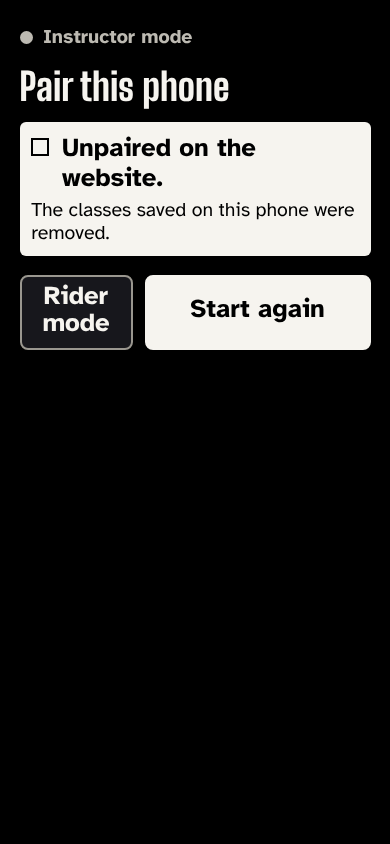
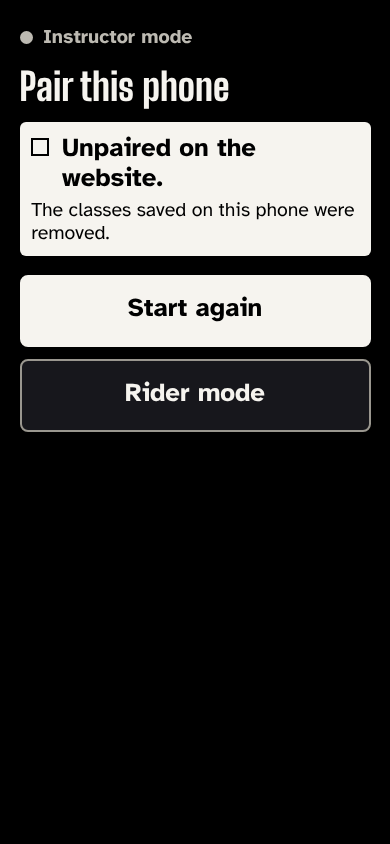
docs(design): Android pairing spec as built
Refused-plate keys stacked, Start again first then Rider mode, as in
PLATE_KEYS; FLAG_SECURE while pairing shows; save-failed plate stays over
rider mode after a pair-again. Mock-ups regenerated. Fix the iOS note.

Claude-Session: https://claude.ai/code/session_01LLHBh3xazuKpSV1STS2mcZ

Changed region(s): [[0.0308, 0.3081, 0.9538, 0.5237]]

diff --git a/docs/design/mockups/app-pair-ios-no-passcode.html b/docs/design/mockups/app-pair-ios-no-passcode.html
@@ -11,6 +11,6 @@
 </head>
 <body class="app">
 <!-- State: pairing ended with no_keychain. The plate carries the notice; "Start again" asks for a new code.  Spec: docs/design/app-pairing.md. Generated by app-pages.js: edit that, not this file. -->
-<main data-layer="native" class="page"><div class="lead"><p class="mode"><span data-tier="label" data-lines="1">Instructor mode</span></p><h1><span data-tier="value" data-lines="2">Pair this phone</span></h1><div class="plate" role="alert"><span data-tier="minor" data-lines="2" class="h">This phone cannot be paired.</span><span data-tier="label" data-lines="4" class="dt">Pairing needs a passcode to keep it safe. Set one in Settings, then start again. Rider mode works without it.</span></div></div><div class="act"><div class="duo"><button class="key" data-action="stay_rider"><span class="kl" data-tier="minor" data-lines="2">Rider mode</span></button><button class="key main" data-action="pair_again"><span class="kl" data-tier="minor" data-lines="2">Start again</span></button></div></div></main>
+<main data-layer="native" class="page"><div class="lead"><p class="mode"><span data-tier="label" data-lines="1">Instructor mode</span></p><h1><span data-tier="value" data-lines="2">Pair this phone</span></h1><div class="plate" role="alert"><span data-tier="minor" data-lines="2" class="h">This phone cannot be paired.</span><span data-tier="label" data-lines="4" class="dt">Pairing needs a passcode to keep it safe. Set one in Settings, then start again. Rider mode works without it.</span></div></div><div class="act"><div class="stack"><button class="key main full" data-action="pair_again"><span class="kl" data-tier="minor" data-lines="2">Start again</span></button><button class="key full" data-action="stay_rider"><span class="kl" data-tier="minor" data-lines="2">Rider mode</span></button></div></div></main>
 </body>
 </html>

diff --git a/docs/design/mockups/app-pair-save-failed.html b/docs/design/mockups/app-pair-save-failed.html
@@ -11,6 +11,6 @@
 </head>
 <body class="app">
 <!-- State: pairing ended with save_failed. The plate carries the notice; "Start again" asks for a new code.  Spec: docs/design/app-pairing.md. Generated by app-pages.js: edit that, not this file. -->
-<main data-layer="native" class="page"><div class="lead"><p class="mode"><span data-tier="label" data-lines="1">Instructor mode</span></p><h1><span data-tier="value" data-lines="2">Pair this phone</span></h1><div class="plate" role="alert"><span data-tier="minor" data-lines="2" class="h">The pairing could not be kept.</span><span data-tier="label" data-lines="4" class="dt">The Android Keystore did not keep it, so the pairing was undone. Start again.</span></div></div><div class="act"><div class="duo"><button class="key" data-action="stay_rider"><span class="kl" data-tier="minor" data-lines="2">Rider mode</span></button><button class="key main" data-action="pair_again"><span class="kl" data-tier="minor" data-lines="2">Start again</span></button></div></div></main>
+<main data-layer="native" class="page"><div class="lead"><p class="mode"><span data-tier="label" data-lines="1">Instructor mode</span></p><h1><span data-tier="value" data-lines="2">Pair this phone</span></h1><div class="plate" role="alert"><span data-tier="minor" data-lines="2" class="h">The pairing could not be kept.</span><span data-tier="label" data-lines="4" class="dt">The Android Keystore did not keep it, so the pairing was undone. Start again.</span></div></div><div class="act"><div class="stack"><button class="key main full" data-action="pair_again"><span class="kl" data-tier="minor" data-lines="2">Start again</span></button><button class="key full" data-action="stay_rider"><span class="kl" data-tier="minor" data-lines="2">Rider mode</span></button></div></div></main>
 </body>
 </html>

diff --git a/docs/design/mockups/app-pair-ios-save-failed.html b/docs/design/mockups/app-pair-ios-save-failed.html
@@ -11,6 +11,6 @@
 </head>
 <body class="app">
 <!-- State: pairing ended with save_failed. The plate carries the notice; "Start again" asks for a new code.  Spec: docs/design/app-pairing.md. Generated by app-pages.js: edit that, not this file. -->
-<main data-layer="native" class="page"><div class="lead"><p class="mode"><span data-tier="label" data-lines="1">Instructor mode</span></p><h1><span data-tier="value" data-lines="2">Pair this phone</span></h1><div class="plate" role="alert"><span data-tier="minor" data-lines="2" class="h">The pairing could not be kept.</span><span data-tier="label" data-lines="4" class="dt">The Keychain did not keep it, so the pairing was undone. Start again.</span></div></div><div class="act"><div class="duo"><button class="key" data-action="stay_rider"><span class="kl" data-tier="minor" data-lines="2">Rider mode</span></button><button class="key main" data-action="pair_again"><span class="kl" data-tier="minor" data-lines="2">Start again</span></button></div></div></main>
+<main data-layer="native" class="page"><div class="lead"><p class="mode"><span data-tier="label" data-lines="1">Instructor mode</span></p><h1><span data-tier="value" data-lines="2">Pair this phone</span></h1><div class="plate" role="alert"><span data-tier="minor" data-lines="2" class="h">The pairing could not be kept.</span><span data-tier="label" data-lines="4" class="dt">The Keychain did not keep it, so the pairing was undone. Start again.</span></div></div><div class="act"><div class="stack"><button class="key main full" data-action="pair_again"><span class="kl" data-tier="minor" data-lines="2">Start again</span></button><button class="key full" data-action="stay_rider"><span class="kl" data-tier="minor" data-lines="2">Rider mode</span></button></div></div></main>
 </body>
 </html>

diff --git a/docs/design/mockups/app-pair-unexpected.html b/docs/design/mockups/app-pair-unexpected.html
@@ -11,6 +11,6 @@
 </head>
 <body class="app">
 <!-- State: pairing ended with unexpected. The plate carries the notice; "Start again" asks for a new code.  Spec: docs/design/app-pairing.md. Generated by app-pages.js: edit that, not this file. -->
-<main data-layer="native" class="page"><div class="lead"><p class="mode"><span data-tier="label" data-lines="1">Instructor mode</span></p><h1><span data-tier="value" data-lines="2">Pair this phone</span></h1><div class="plate" role="alert"><span data-tier="minor" data-lines="2" class="h">The answer was not understood.</span><span data-tier="label" data-lines="4" class="dt">The app could not read the server's answer. Try again later.</span></div></div><div class="act"><div class="duo"><button class="key" data-action="stay_rider"><span class="kl" data-tier="minor" data-lines="2">Rider mode</span></button><button class="key main" data-action="pair_again"><span class="kl" data-tier="minor" data-lines="2">Start again</span></button></div></div></main>
+<main data-layer="native" class="page"><div class="lead"><p class="mode"><span data-tier="label" data-lines="1">Instructor mode</span></p><h1><span data-tier="value" data-lines="2">Pair this phone</span></h1><div class="plate" role="alert"><span data-tier="minor" data-lines="2" class="h">The answer was not understood.</span><span data-tier="label" data-lines="4" class="dt">The app could not read the server's answer. Try again later.</span></div></div><div class="act"><div class="stack"><button class="key main full" data-action="pair_again"><span class="kl" data-tier="minor" data-lines="2">Start again</span></button><button class="key full" data-action="stay_rider"><span class="kl" data-tier="minor" data-lines="2">Rider mode</span></button></div></div></main>
 </body>
 </html>

diff --git a/docs/design/mockups/app-pair-code-expired.html b/docs/design/mockups/app-pair-code-expired.html
@@ -11,6 +11,6 @@
 </head>
 <body class="app">
 <!-- State: pairing ended with code_expired. The plate carries the notice; "Start again" asks for a new code.  Spec: docs/design/app-pairing.md. Generated by app-pages.js: edit that, not this file. -->
-<main data-layer="native" class="page"><div class="lead"><p class="mode"><span data-tier="label" data-lines="1">Instructor mode</span></p><h1><span data-tier="value" data-lines="2">Pair this phone</span></h1><div class="plate" role="alert"><span data-tier="minor" data-lines="2" class="h">The code ran out.</span><span data-tier="label" data-lines="4" class="dt">It was not confirmed in time. Start again for a new code.</span></div></div><div class="act"><div class="duo"><button class="key" data-action="stay_rider"><span class="kl" data-tier="minor" data-lines="2">Rider mode</span></button><button class="key main" data-action="pair_again"><span class="kl" data-tier="minor" data-lines="2">Start again</span></button></div></div></main>
+<main data-layer="native" class="page"><div class="lead"><p class="mode"><span data-tier="label" data-lines="1">Instructor mode</span></p><h1><span data-tier="value" data-lines="2">Pair this phone</span></h1><div class="plate" role="alert"><span data-tier="minor" data-lines="2" class="h">The code ran out.</span><span data-tier="label" data-lines="4" class="dt">It was not confirmed in time. Start again for a new code.</span></div></div><div class="act"><div class="stack"><button class="key main full" data-action="pair_again"><span class="kl" data-tier="minor" data-lines="2">Start again</span></button><button class="key full" data-action="stay_rider"><span class="kl" data-tier="minor" data-lines="2">Rider mode</span></button></div></div></main>
 </body>
 </html>

diff --git a/docs/design/mockups/app-pair-unreachable.html b/docs/design/mockups/app-pair-unreachable.html
@@ -11,6 +11,6 @@
 </head>
 <body class="app">
 <!-- State: pairing ended with unreachable. The plate carries the notice; "Start again" asks for a new code.  Spec: docs/design/app-pairing.md. Generated by app-pages.js: edit that, not this file. -->
-<main data-layer="native" class="page"><div class="lead"><p class="mode"><span data-tier="label" data-lines="1">Instructor mode</span></p><h1><span data-tier="value" data-lines="2">Pair this phone</span></h1><div class="plate" role="alert"><span data-tier="minor" data-lines="2" class="h">The server could not be reached.</span><span data-tier="label" data-lines="4" class="dt">Check the connection, then start again.</span></div></div><div class="act"><div class="duo"><button class="key" data-action="stay_rider"><span class="kl" data-tier="minor" data-lines="2">Rider mode</span></button><button class="key main" data-action="pair_again"><span class="kl" data-tier="minor" data-lines="2">Start again</span></button></div></div></main>
+<main data-layer="native" class="page"><div class="lead"><p class="mode"><span data-tier="label" data-lines="1">Instructor mode</span></p><h1><span data-tier="value" data-lines="2">Pair this phone</span></h1><div class="plate" role="alert"><span data-tier="minor" data-lines="2" class="h">The server could not be reached.</span><span data-tier="label" data-lines="4" class="dt">Check the connection, then start again.</span></div></div><div class="act"><div class="stack"><button class="key main full" data-action="pair_again"><span class="kl" data-tier="minor" data-lines="2">Start again</span></button><button class="key full" data-action="stay_rider"><span class="kl" data-tier="minor" data-lines="2">Rider mode</span></button></div></div></main>
 </body>
 </html>

diff --git a/docs/design/mockups/app-pair-revoked.html b/docs/design/mockups/app-pair-revoked.html
@@ -11,6 +11,6 @@
 </head>
 <body class="app">
 <!-- State: pairing ended with revoked. The plate carries the notice; "Start again" asks for a new code.  Spec: docs/design/app-pairing.md. Generated by app-pages.js: edit that, not this file. -->
-<main data-layer="native" class="page"><div class="lead"><p class="mode"><span data-tier="label" data-lines="1">Instructor mode</span></p><h1><span data-tier="value" data-lines="2">Pair this phone</span></h1><div class="plate" role="alert"><span data-tier="minor" data-lines="2" class="h">Unpaired on the website.</span><span data-tier="label" data-lines="4" class="dt">The classes saved on this phone were removed.</span></div></div><div class="act"><div class="duo"><button class="key" data-action="stay_rider"><span class="kl" data-tier="minor" data-lines="2">Rider mode</span></button><button class="key main" data-action="pair_again"><span class="kl" data-tier="minor" data-lines="2">Start again</span></button></div></div></main>
+<main data-layer="native" class="page"><div class="lead"><p class="mode"><span data-tier="label" data-lines="1">Instructor mode</span></p><h1><span data-tier="value" data-lines="2">Pair this phone</span></h1><div class="plate" role="alert"><span data-tier="minor" data-lines="2" class="h">Unpaired on the website.</span><span data-tier="label" data-lines="4" class="dt">The classes saved on this phone were removed.</span></div></div><div class="act"><div class="stack"><button class="key main full" data-action="pair_again"><span class="kl" data-tier="minor" data-lines="2">Start again</span></button><button class="key full" data-action="stay_rider"><span class="kl" data-tier="minor" data-lines="2">Rider mode</span></button></div></div></main>
 </body>
 </html>

diff --git a/docs/design/mockups/app-pair-denied.html b/docs/design/mockups/app-pair-denied.html
@@ -11,6 +11,6 @@
 </head>
 <body class="app">
 <!-- State: pairing ended with denied. The plate carries the notice; "Start again" asks for a new code.  Spec: docs/design/app-pairing.md. Generated by app-pages.js: edit that, not this file. -->
-<main data-layer="native" class="page"><div class="lead"><p class="mode"><span data-tier="label" data-lines="1">Instructor mode</span></p><h1><span data-tier="value" data-lines="2">Pair this phone</span></h1><div class="plate" role="alert"><span data-tier="minor" data-lines="2" class="h">Refused on the website.</span><span data-tier="label" data-lines="4" class="dt">Nothing was kept on this phone.</span></div></div><div class="act"><div class="duo"><button class="key" data-action="stay_rider"><span class="kl" data-tier="minor" data-lines="2">Rider mode</span></button><button class="key main" data-action="pair_again"><span class="kl" data-tier="minor" data-lines="2">Start again</span></button></div></div></main>
+<main data-layer="native" class="page"><div class="lead"><p class="mode"><span data-tier="label" data-lines="1">Instructor mode</span></p><h1><span data-tier="value" data-lines="2">Pair this phone</span></h1><div class="plate" role="alert"><span data-tier="minor" data-lines="2" class="h">Refused on the website.</span><span data-tier="label" data-lines="4" class="dt">Nothing was kept on this phone.</span></div></div><div class="act"><div class="stack"><button class="key main full" data-action="pair_again"><span class="kl" data-tier="minor" data-lines="2">Start again</span></button><button class="key full" data-action="stay_rider"><span class="kl" data-tier="minor" data-lines="2">Rider mode</span></button></div></div></main>
 </body>
 </html>

diff --git a/docs/design/mockups/app-pair-too-many.html b/docs/design/mockups/app-pair-too-many.html
@@ -11,6 +11,6 @@
 </head>
 <body class="app">
 <!-- State: pairing ended with too_many. The plate carries the notice; "Start again" asks for a new code.  Spec: docs/design/app-pairing.md. Generated by app-pages.js: edit that, not this file. -->
-<main data-layer="native" class="page"><div class="lead"><p class="mode"><span data-tier="label" data-lines="1">Instructor mode</span></p><h1><span data-tier="value" data-lines="2">Pair this phone</span></h1><div class="plate" role="alert"><span data-tier="minor" data-lines="2" class="h">Too many pairings were started.</span><span data-tier="label" data-lines="4" class="dt">Try again in an hour.</span></div></div><div class="act"><div class="duo"><button class="key" data-action="stay_rider"><span class="kl" data-tier="minor" data-lines="2">Rider mode</span></button><button class="key main" data-action="pair_again"><span class="kl" data-tier="minor" data-lines="2">Start again</span></button></div></div></main>
+<main data-layer="native" class="page"><div class="lead"><p class="mode"><span data-tier="label" data-lines="1">Instructor mode</span></p><h1><span data-tier="value" data-lines="2">Pair this phone</span></h1><div class="plate" role="alert"><span data-tier="minor" data-lines="2" class="h">Too many pairings were started.</span><span data-tier="label" data-lines="4" class="dt">Try again in an hour.</span></div></div><div class="act"><div class="stack"><button class="key main full" data-action="pair_again"><span class="kl" data-tier="minor" data-lines="2">Start again</span></button><button class="key full" data-action="stay_rider"><span class="kl" data-tier="minor" data-lines="2">Rider mode</span></button></div></div></main>
 </body>
 </html>

diff --git a/docs/design/mockups/app-pages.js b/docs/design/mockups/app-pages.js
@@ -99,7 +99,7 @@ add('pair-done', 'app-pairing.md', 'App: paired', 'State: the approval came and 
 
 // A pairing notice: NOTICE_TEXT (core/pairing/view.ts) in the app's words, on a plate.
 const notice = (name, title, text, detail, again = true, state = name.replace('-', '_')) => add(`pair-${name}`, 'app-pairing.md', `App: pairing, ${title}`, `State: pairing ended with ${state}. The plate carries the notice; ${again ? '"Start again" asks for a new code' : 'there is nothing to try again'}.`,
-  native(page(mode('Instructor mode') + h1('Pair this phone') + plate(text, detail), again ? duo(key('stay_rider', 'Rider mode'), key('pair_again', 'Start again', { main: true })) : duo(key('stay_rider', 'Back to rider mode', { main: true })))));
+  native(page(mode('Instructor mode') + h1('Pair this phone') + plate(text, detail), again ? stack(key('pair_again', 'Start again', { main: true, full: true }), key('stay_rider', 'Rider mode', { full: true })) : duo(key('stay_rider', 'Back to rider mode', { main: true })))));
 notice('denied', 'refused', 'Refused on the website.', 'Nothing was kept on this phone.');
 notice('code-expired', 'code ran out', 'The code ran out.', 'It was not confirmed in time. Start again for a new code.');
 notice('unreachable', 'no server', 'The server could not be reached.', 'Check the connection, then start again.');

diff --git a/docs/design/app-pairing.md b/docs/design/app-pairing.md
@@ -48,13 +48,13 @@ The code never wraps and never shrinks below the value floor; at 360 px wide it 
 | The code, no screen lock | `app-pair-code-no-lock` | The same with a grey note: "This phone has no screen lock. Instructor mode will need one: set it before or after pairing." Pairing goes on |
 | Back from the browser, not yet confirmed | `app-pair-waiting` | The working line "Not yet confirmed on the website" above the code; the main key becomes "Open the page again" |
 | Paired | `app-pair-done` | "This phone is paired", the status line "Paired as <account e-mail>", "Confirm your screen lock to open instructor mode.", and "Continue", which opens the screen-lock prompt (or app-modes.md's no-lock screen). Reached from "Pair again" in instructor mode, the screen has **no screen-lock line**: the phone is already in instructor mode, so "Continue" returns to the class list |
-| Refused | `app-pair-denied` | A white plate "Refused on the website. / Nothing was kept on this phone." Keys "Rider mode" and "Start again" (main) |
+| Refused | `app-pair-denied` | A white plate "Refused on the website. / Nothing was kept on this phone." Keys stacked, in the order built (`PLATE_KEYS`): "Start again" (main) first, then "Rider mode" |
 | Code ran out | `app-pair-code-expired` | Plate "The code ran out. / It was not confirmed in time. Start again for a new code." Same keys |
 | Server unreachable | `app-pair-unreachable` | Plate "The server could not be reached. / Check the connection, then start again." Same keys |
 | No Keystore | `app-pair-no-keystore` | Plate "This phone cannot be paired. / It has no Android Keystore, so there is no safe place for the pairing. Rider mode works without it." One key, "Back to rider mode". There is no plain-text fallback (ADR 0011 section 5) |
 | Too many pairings | `app-pair-too-many` | Plate "Too many pairings were started. / Try again in an hour." (the desktop's `too_many`, from this network). Same keys as Refused; "Start again" asks again, and the server may still refuse until the hour has passed |
 | Answer not understood | `app-pair-unexpected` | Plate "The answer was not understood. / The app could not read the server's answer. Try again later." (the desktop's `unexpected`). Same keys as Refused. Nothing was kept |
-| Pairing could not be kept | `app-pair-save-failed` | Plate "The pairing could not be kept. / The Android Keystore did not keep it, so the pairing was undone. Start again." (the desktop's `save_failed`; the app asks the server to drop the record it made). Same keys as Refused |
+| Pairing could not be kept | `app-pair-save-failed` | Plate "The pairing could not be kept. / The Android Keystore did not keep it, so the pairing was undone. Start again." (the desktop's `save_failed`; the app asks the server to drop the record it made). Same keys as Refused. When the screen is dropped after "Pair again" from instructor mode, this plate stays over rider mode, as on iOS (#956); its keys then lead from rider mode |
 | Unpaired on the website | `app-pair-revoked` | Plate "Unpaired on the website. / The classes saved on this phone were removed." Same keys as Refused. Instructor mode closes to rider mode **at once, with no plate**. The plate shows when pairing next opens **in the same run**, and only "Start again" begins then. A plate that was shown is cleared and is not shown again. It is not kept across a restart (the next pairing opens on "Asking for a code") |
 | Server unreachable, no server address | `app-pair-unreachable` | A release built with no server address (the build's `NO_SERVER`) shows the same plate as Server unreachable. "Start again" cannot succeed there: it shows the plate again until a build with an address is installed |
 
@@ -67,6 +67,8 @@ desktop notice.
 The three new plates use the same mode tag, title, plate and keys as Refused, so each has one mock-up and the same two sizes. "Cancel" and "Rider mode" go back to rider mode's start page; the code is dropped. Back is
 "Cancel". A pairing screen never shows the device token, any part of it or the account's
 password.
+
+While any pairing page shows, the window carries `FLAG_SECURE` (`PairingSeams.kt`, set by `PairingUi.kt`; cleared when the screen closes): the code is blank in Recents and cannot be screenshotted.
 
 ## Motion and reduced motion
 

diff --git a/docs/design/app-pairing-ios.md b/docs/design/app-pairing-ios.md
@@ -36,7 +36,7 @@ Safari; no platform name shows in the steps.
 | State | Mock-up | What shows |
 |---|---|---|
 | Paired | `app-pair-ios-done` | Title "This phone is paired", status "Paired as <account e-mail>", line "Confirm it is you to open instructor mode.", key "Continue" (opens the system prompt). The line is the same words whichever of Face ID, Touch ID or the passcode the phone uses. Reached from "Pair again" in instructor mode, the line is absent and "Continue" returns to the class list, as on Android. A long e-mail wraps inside the window and never scrolls sideways |
-| No passcode (the desktop's `noKeychain`) | `app-pair-ios-no-passcode` | Plate "This phone cannot be paired. / Pairing needs a passcode to keep it safe. Set one in Settings, then start again. Rider mode works without it." Keys, in this order as built, "Start again" (main) then "Rider mode" (the same order on every iOS plate; the test asserts `["Start again","Rider mode"]`; app-pairing.md lists them the other way round in prose, and on iOS the code is right). Shown only once a server address exists: "no server" is checked before "no Keychain" (`PairingMachine`), so a build with no address shows the unreachable plate, never this one. Unlike Android's one key, "Start again" is offered, because setting a passcode can fix it; it checks again and shows the same plate if there is still none. There is no plain-text fallback (ADR 0016 section 3). No key opens Settings: iOS lets an app open only its own settings page |
+| No passcode (the desktop's `noKeychain`) | `app-pair-ios-no-passcode` | Plate "This phone cannot be paired. / Pairing needs a passcode to keep it safe. Set one in Settings, then start again. Rider mode works without it." Keys, in this order as built, "Start again" (main) then "Rider mode" (the same order on every iOS plate; the test asserts `["Start again","Rider mode"]`, as on Android). Shown only once a server address exists: "no server" is checked before "no Keychain" (`PairingMachine`), so a build with no address shows the unreachable plate, never this one. Unlike Android's one key, "Start again" is offered, because setting a passcode can fix it; it checks again and shows the same plate if there is still none. There is no plain-text fallback (ADR 0016 section 3). No key opens Settings: iOS lets an app open only its own settings page |
 | Pairing could not be kept | `app-pair-ios-save-failed` | Plate "The pairing could not be kept. / The Keychain did not keep it, so the pairing was undone. Start again." Same keys as Refused (order as above). The app asks the server to drop the record it made. When the screen is dropped (the page that opened it is replaced) after "Pair again" from instructor mode, this plate stays over rider mode, so the user learns why; its keys then lead from rider mode, and a pairing made there goes on to instructor mode as from rider mode's own way in (#950). From rider mode, dropping closes the screen as before |
 | Server unreachable, no server address | `app-pair-unreachable` | **Today every iOS build has no server address** (ADR 0016 section 4, until the owner decides). The pairing's `noServer` notice is shown as this plate, as Android's `NO_SERVER` is. "Start again" shows the plate again. The phone never shows `noServer` or `unpaired` words |
 
